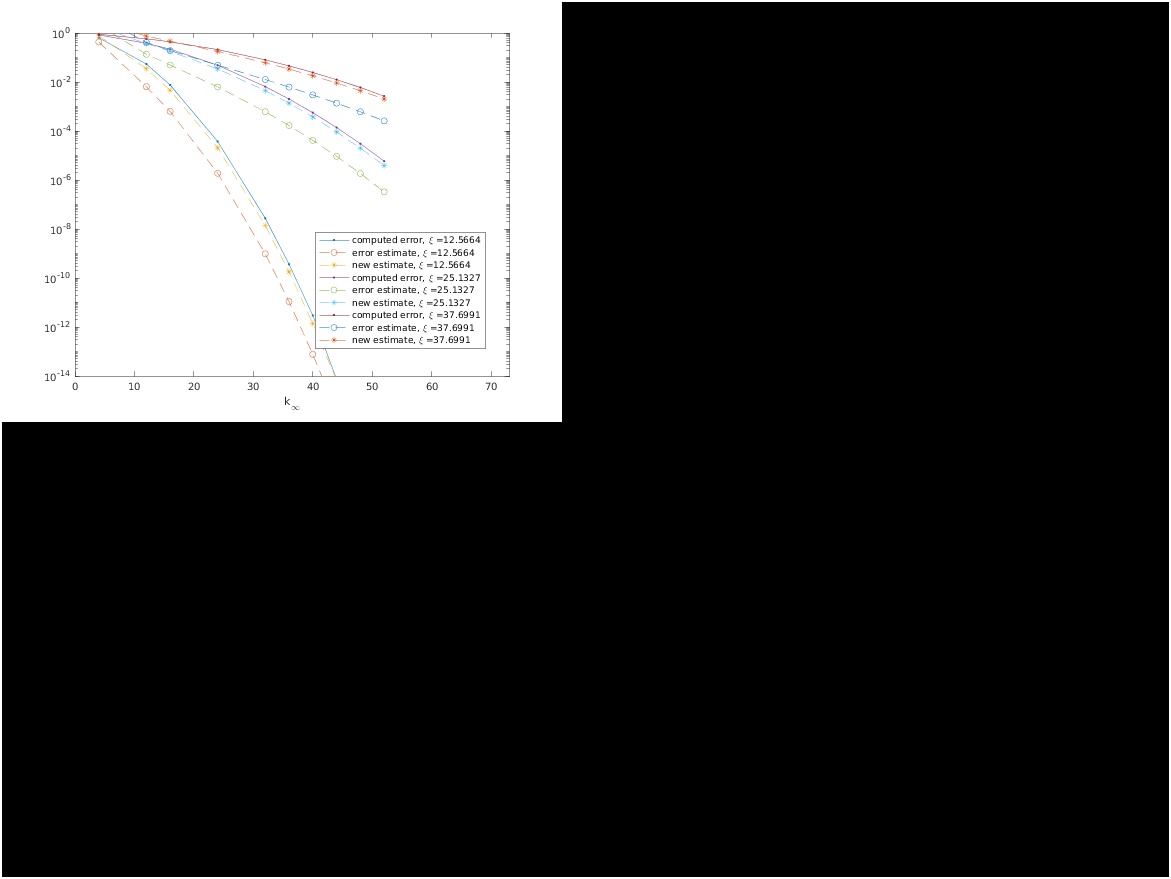
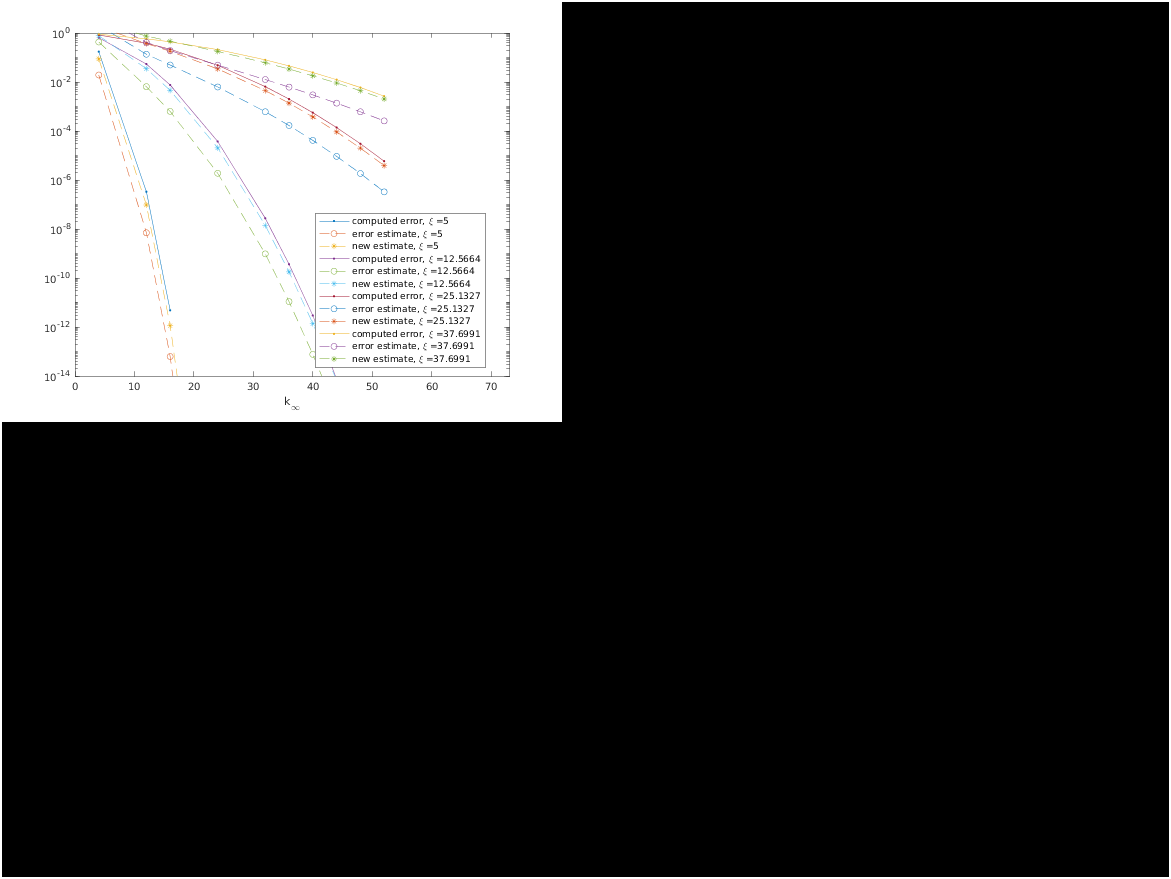
imgs

diff --git a/SE_Stokes_run/SE3P_Stokes/param_select.m b/SE_Stokes_run/SE3P_Stokes/param_select.m
@@ -28,7 +28,7 @@ ED_opt.layers = (opt.M(1)-1)/2;
 ED_opt.box = box;
 refv = [];
 rms_ev = [];
-xx = (4:4:12)*pi;
+xx = [5,(4:4:12)*pi];
 
     %% Direct solution
 if(exist('refval.mat'))
